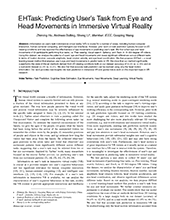
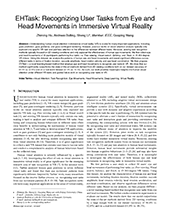
add EHTask to Index

diff --git a/index.html b/index.html
@@ -99,6 +99,65 @@
 
 <!--paper-->
 <ol class="bibliography"><li>
+<div id="hu22_EHTask" class="margin-bottom-30">
+<a href="./EHTask.html">
+<img class="thumbnail" src="./index/image/EHTask.png" title="EHTask: Recognizing User Tasks from Eye and Head Movements in Immersive Virtual Reality" alt="EHTask: Recognizing User Tasks from Eye and Head Movements in Immersive Virtual Reality">
+</a>	
+<p class="pub_title">EHTask: Recognizing User Tasks from Eye and Head Movements in Immersive Virtual Reality</p>
+<p class="pub_author">
+<a class="a-int" href="https://cranehzm.github.io/">Zhiming Hu</a>,
+Andreas Bulling, Sheng Li, Guoping Wang
+</p>
+<p class="pub_additional">        
+<span class="pub_additional_journal">IEEE Transactions on Visualization and Computer Graphics (Conditionally Accepted)
+</span>
+<!--<span class="pub_additional_pages">pp. 2681-2690, </span>
+<span class="pub_additional_year">2021</span>.-->
+</p>
+<p class="pub_tags">
+	<span class="button bg_greydark"><a id="pub_abstract_sh_hu22_EHTask" class="pub_show" onclick="pub_showhide(&#39;hu22_EHTask&#39;,&#39;pub_abstract&#39;)">Abstract</a></span>
+	<!--<span class="button bg_greydark"><a id="pub_links_sh_hu22_EHTask" class="pub_show" onclick="pub_showhide(&#39;hu22_EHTask&#39;,&#39;pub_links&#39;)">Links</a></span>
+	<span class="button bg_greydark"><a id="pub_bibtex_sh_hu22_EHTask" class="pub_show" onclick="pub_showhide(&#39;hu22_EHTask&#39;,&#39;pub_bibtex&#39;)">BibTeX</a></span>-->
+	<span class="button bg_greydark margin-left-10"><a href="./EHTask.html">Project</a></span>
+</p>
+<div class="pub_abstract bg_grey" id="pub_abstract_hu22_EHTask" style="display:none;">
+Understanding human visual attention in immersive virtual reality (VR) is crucial for many important applications, including gaze prediction, gaze guidance, and gaze-contingent rendering.
+However, previous works on visual attention analysis typically only explored one specific VR task and paid less attention to the differences between different tasks.
+Moreover, existing task recognition methods typically focused on 2D viewing conditions and only explored the effectiveness of human eye movements.
+We first collect eye and head movements of 30 participants performing four tasks, i.e. Free viewing, Visual search, Saliency, and Track, in 15 360-degree VR videos.
+Using this dataset, we analyze the patterns of human eye and head movements and reveal significant differences across different tasks in terms of fixation duration, saccade amplitude, head rotation velocity, and eye-head coordination.
+We then propose EHTask -- a novel learning-based method that employs eye and head movements to recognize user tasks in VR.
+We show that our method significantly outperforms the state-of-the-art methods derived from 2D viewing conditions both on our dataset (accuracy of 84.4% vs. 62.8%) and on a real-world dataset (61.9% vs. 44.1%). 
+As such, our work provides meaningful insights into human visual attention under different VR tasks and guides future work on recognizing user tasks in VR.
+</div>
+<div class="pub_links bg_grey" id="pub_links_hu22_EHTask" style="display:none;">
+<div class="pub_links">
+	<svg class="svg-inline--fa fa-fingerprint fa-w-16" aria-hidden="true" focusable="false" data-prefix="fa" data-icon="fingerprint" role="img" xmlns="http://www.w3.org/2000/svg" viewBox="0 0 512 512" data-fa-i2svg=""><path fill="currentColor" d="M256.12 245.96c-13.25 0-24 10.74-24 24 1.14 72.25-8.14 141.9-27.7 211.55-2.73 9.72 2.15 30.49 23.12 30.49 10.48 0 20.11-6.92 23.09-17.52 13.53-47.91 31.04-125.41 29.48-224.52.01-13.25-10.73-24-23.99-24zm-.86-81.73C194 164.16 151.25 211.3 152.1 265.32c.75 47.94-3.75 95.91-13.37 142.55-2.69 12.98 5.67 25.69 18.64 28.36 13.05 2.67 25.67-5.66 28.36-18.64 10.34-50.09 15.17-101.58 14.37-153.02-.41-25.95 19.92-52.49 54.45-52.34 31.31.47 57.15 25.34 57.62 55.47.77 48.05-2.81 96.33-10.61 143.55-2.17 13.06 6.69 25.42 19.76 27.58 19.97 3.33 26.81-15.1 27.58-19.77 8.28-50.03 12.06-101.21 11.27-152.11-.88-55.8-47.94-101.88-104.91-102.72zm-110.69-19.78c-10.3-8.34-25.37-6.8-33.76 3.48-25.62 31.5-39.39 71.28-38.75 112 .59 37.58-2.47 75.27-9.11 112.05-2.34 13.05 6.31 25.53 19.36 27.89 20.11 3.5 27.07-14.81 27.89-19.36 7.19-39.84 10.5-80.66 9.86-121.33-.47-29.88 9.2-57.88 28-80.97 8.35-10.28 6.79-25.39-3.49-33.76zm109.47-62.33c-15.41-.41-30.87 1.44-45.78 4.97-12.89 3.06-20.87 15.98-17.83 28.89 3.06 12.89 16 20.83 28.89 17.83 11.05-2.61 22.47-3.77 34-3.69 75.43 1.13 137.73 61.5 138.88 134.58.59 37.88-1.28 76.11-5.58 113.63-1.5 13.17 7.95 25.08 21.11 26.58 16.72 1.95 25.51-11.88 26.58-21.11a929.06 929.06 0 0 0 5.89-119.85c-1.56-98.75-85.07-180.33-186.16-181.83zm252.07 121.45c-2.86-12.92-15.51-21.2-28.61-18.27-12.94 2.86-21.12 15.66-18.26 28.61 4.71 21.41 4.91 37.41 4.7 61.6-.11 13.27 10.55 24.09 23.8 24.2h.2c13.17 0 23.89-10.61 24-23.8.18-22.18.4-44.11-5.83-72.34zm-40.12-90.72C417.29 43.46 337.6 1.29 252.81.02 183.02-.82 118.47 24.91 70.46 72.94 24.09 119.37-.9 181.04.14 246.65l-.12 21.47c-.39 13.25 10.03 24.31 23.28 24.69.23.02.48.02.72.02 12.92 0 23.59-10.3 23.97-23.3l.16-23.64c-.83-52.5 19.16-101.86 56.28-139 38.76-38.8 91.34-59.67 147.68-58.86 69.45 1.03 134.73 35.56 174.62 92.39 7.61 10.86 22.56 13.45 33.42 5.86 10.84-7.62 13.46-22.59 5.84-33.43z"></path></svg><!-- <i class="fa fa-fingerprint"></i> --><p>doi: <a class="a-text-ext" href="http://www.txxb.com.cn/CN/10.11996/JG.j.2095-302X.2021030367" rel="nofollow" target="_blank">http://www.txxb.com.cn/CN/10.11996/JG.j.2095-302X.2021030367</a></p>
+	<svg class="svg-inline--fa fa-file-pdf fa-w-12" aria-hidden="true" focusable="false" data-prefix="fa" data-icon="file-pdf" role="img" xmlns="http://www.w3.org/2000/svg" viewBox="0 0 384 512" data-fa-i2svg=""><path fill="currentColor" d="M181.9 256.1c-5-16-4.9-46.9-2-46.9 8.4 0 7.6 36.9 2 46.9zm-1.7 47.2c-7.7 20.2-17.3 43.3-28.4 62.7 18.3-7 39-17.2 62.9-21.9-12.7-9.6-24.9-23.4-34.5-40.8zM86.1 428.1c0 .8 13.2-5.4 34.9-40.2-6.7 6.3-29.1 24.5-34.9 40.2zM248 160h136v328c0 13.3-10.7 24-24 24H24c-13.3 0-24-10.7-24-24V24C0 10.7 10.7 0 24 0h200v136c0 13.2 10.8 24 24 24zm-8 171.8c-20-12.2-33.3-29-42.7-53.8 4.5-18.5 11.6-46.6 6.2-64.2-4.7-29.4-42.4-26.5-47.8-6.8-5 18.3-.4 44.1 8.1 77-11.6 27.6-28.7 64.6-40.8 85.8-.1 0-.1.1-.2.1-27.1 13.9-73.6 44.5-54.5 68 5.6 6.9 16 10 21.5 10 17.9 0 35.7-18 61.1-61.8 25.8-8.5 54.1-19.1 79-23.2 21.7 11.8 47.1 19.5 64 19.5 29.2 0 31.2-32 19.7-43.4-13.9-13.6-54.3-9.7-73.6-7.2zM377 105L279 7c-4.5-4.5-10.6-7-17-7h-6v128h128v-6.1c0-6.3-2.5-12.4-7-16.9zm-74.1 255.3c4.1-2.7-2.5-11.9-42.8-9 37.1 15.8 42.8 9 42.8 9z"></path></svg><!-- <i class="fa fa-file-pdf"></i> --><p>Paper: <a class="pub_list" href="./UserTask/pdf/hu21_UserTask.pdf">hu22_EHTask.pdf</a></p>
+</div>
+</div>
+<div class="pub_bibtex bg_grey" id="pub_bibtex_hu22_EHTask" style="display:none;">
+@article{hu22_EHTask,
+  title = {EHTask: Recognizing User Tasks from Eye and Head Movements in Immersive Virtual Reality},
+  author = {Hu, Zhiming and Li, Sheng and Gai, Meng},
+  year = {2021},
+  journal={Journal of Graphics},
+  doi = {http://www.txxb.com.cn/CN/10.11996/JG.j.2095-302X.2021030367},
+  volume = {42},
+  number = {3},
+  pages = {367-375}
+}
+@article{hu22_EHTask,
+  title = {EHTask: Recognizing User Tasks from Eye and Head Movements in Immersive Virtual Reality},
+  author = {Hu, Zhiming and Bulling, Andreas and Li, Sheng and Wang, Guoping},
+  year = {2022},
+  journal = {IEEE Transactions on Visualization and Computer Graphics}
+}
+</div>
+</ol>
+
+<!--paper-->
+<ol class="bibliography"><li>
 <div id="hu21_UserTask" class="margin-bottom-30">
 <a href="./UserTask.html">
 <img class="thumbnail" src="./index/image/UserTask.png" title="Research progress of user task prediction and algorithm analysis (in Chinese)" alt="Research progress of user task prediction and algorithm analysis (in Chinese)">

diff --git a/Resume-Chinese.html b/Resume-Chinese.html
@@ -148,7 +148,7 @@
 创新点在于首次针对虚拟现实环境中不同任务下的用户视觉注意进行了分析，并首次提出了一个针对虚拟现实环境、基于学习的任务预测模型。
 该模型在虚拟现实和真实世界中的表现都显著地好于之前的方法。
 </p>
-<!--<p><b>项目主页：</b> <a href="https://cranehzm.github.io/EHTask.html" style="color:#820010">cranehzm.github.io/EHTask</a></p><span class="item-remove" style="visibility: hidden;"><i class="iconfont icon-delete"></i></span></li>-->
+<p><b>项目主页：</b> <a href="https://cranehzm.github.io/EHTask.html" style="color:#820010">cranehzm.github.io/EHTask</a></p><span class="item-remove" style="visibility: hidden;"><i class="iconfont icon-delete"></i></span></li>
 <li><p>
 <strong>FixationNet, 2021</strong><br>
 针对任务驱动虚拟场景，提出了一个基于学习的注视预测模型FixationNet。
@@ -211,8 +211,8 @@ Zehui Lin, Xiang Gu, Sheng Li,
 Guoping Wang<br>
 IEEE Transactions on Visualization and Computer Graphics, 2021 (<strong>CCF A</strong>, Accepted)</p><br>
 
-<p contenteditable="true"><img width="11%" src="./index/image/EHTask.png" style="FLOAT: left; MARGIN-LEFT: 0px; MARGIN-RIGHT: 10px; MARGIN-TOP: 0px; MARGIN-BOTTOM: 0px;" alt="">
-<strong>EHTask: Predicting User's Task from Eye and Head Movements in Immersive Virtual Reality</strong><br>
+<p contenteditable="true"><a href="https://cranehzm.github.io/EHTask.html"><img width="11%" src="./index/image/EHTask.png" style="FLOAT: left; MARGIN-LEFT: 0px; MARGIN-RIGHT: 10px; MARGIN-TOP: 0px; MARGIN-BOTTOM: 0px;" alt=""></a>
+<strong>EHTask: Recognizing User Tasks from Eye and Head Movements in Immersive Virtual Reality</strong><br>
 <a class="a-int" href="https://cranehzm.github.io/" style="color:#820010">Zhiming Hu</a>,
 Andreas Bulling, Sheng Li, Guoping Wang<br>
 IEEE Transactions on Visualization and Computer Graphics, 2021 (<strong>CCF A</strong>, Accepted)</p><br>
